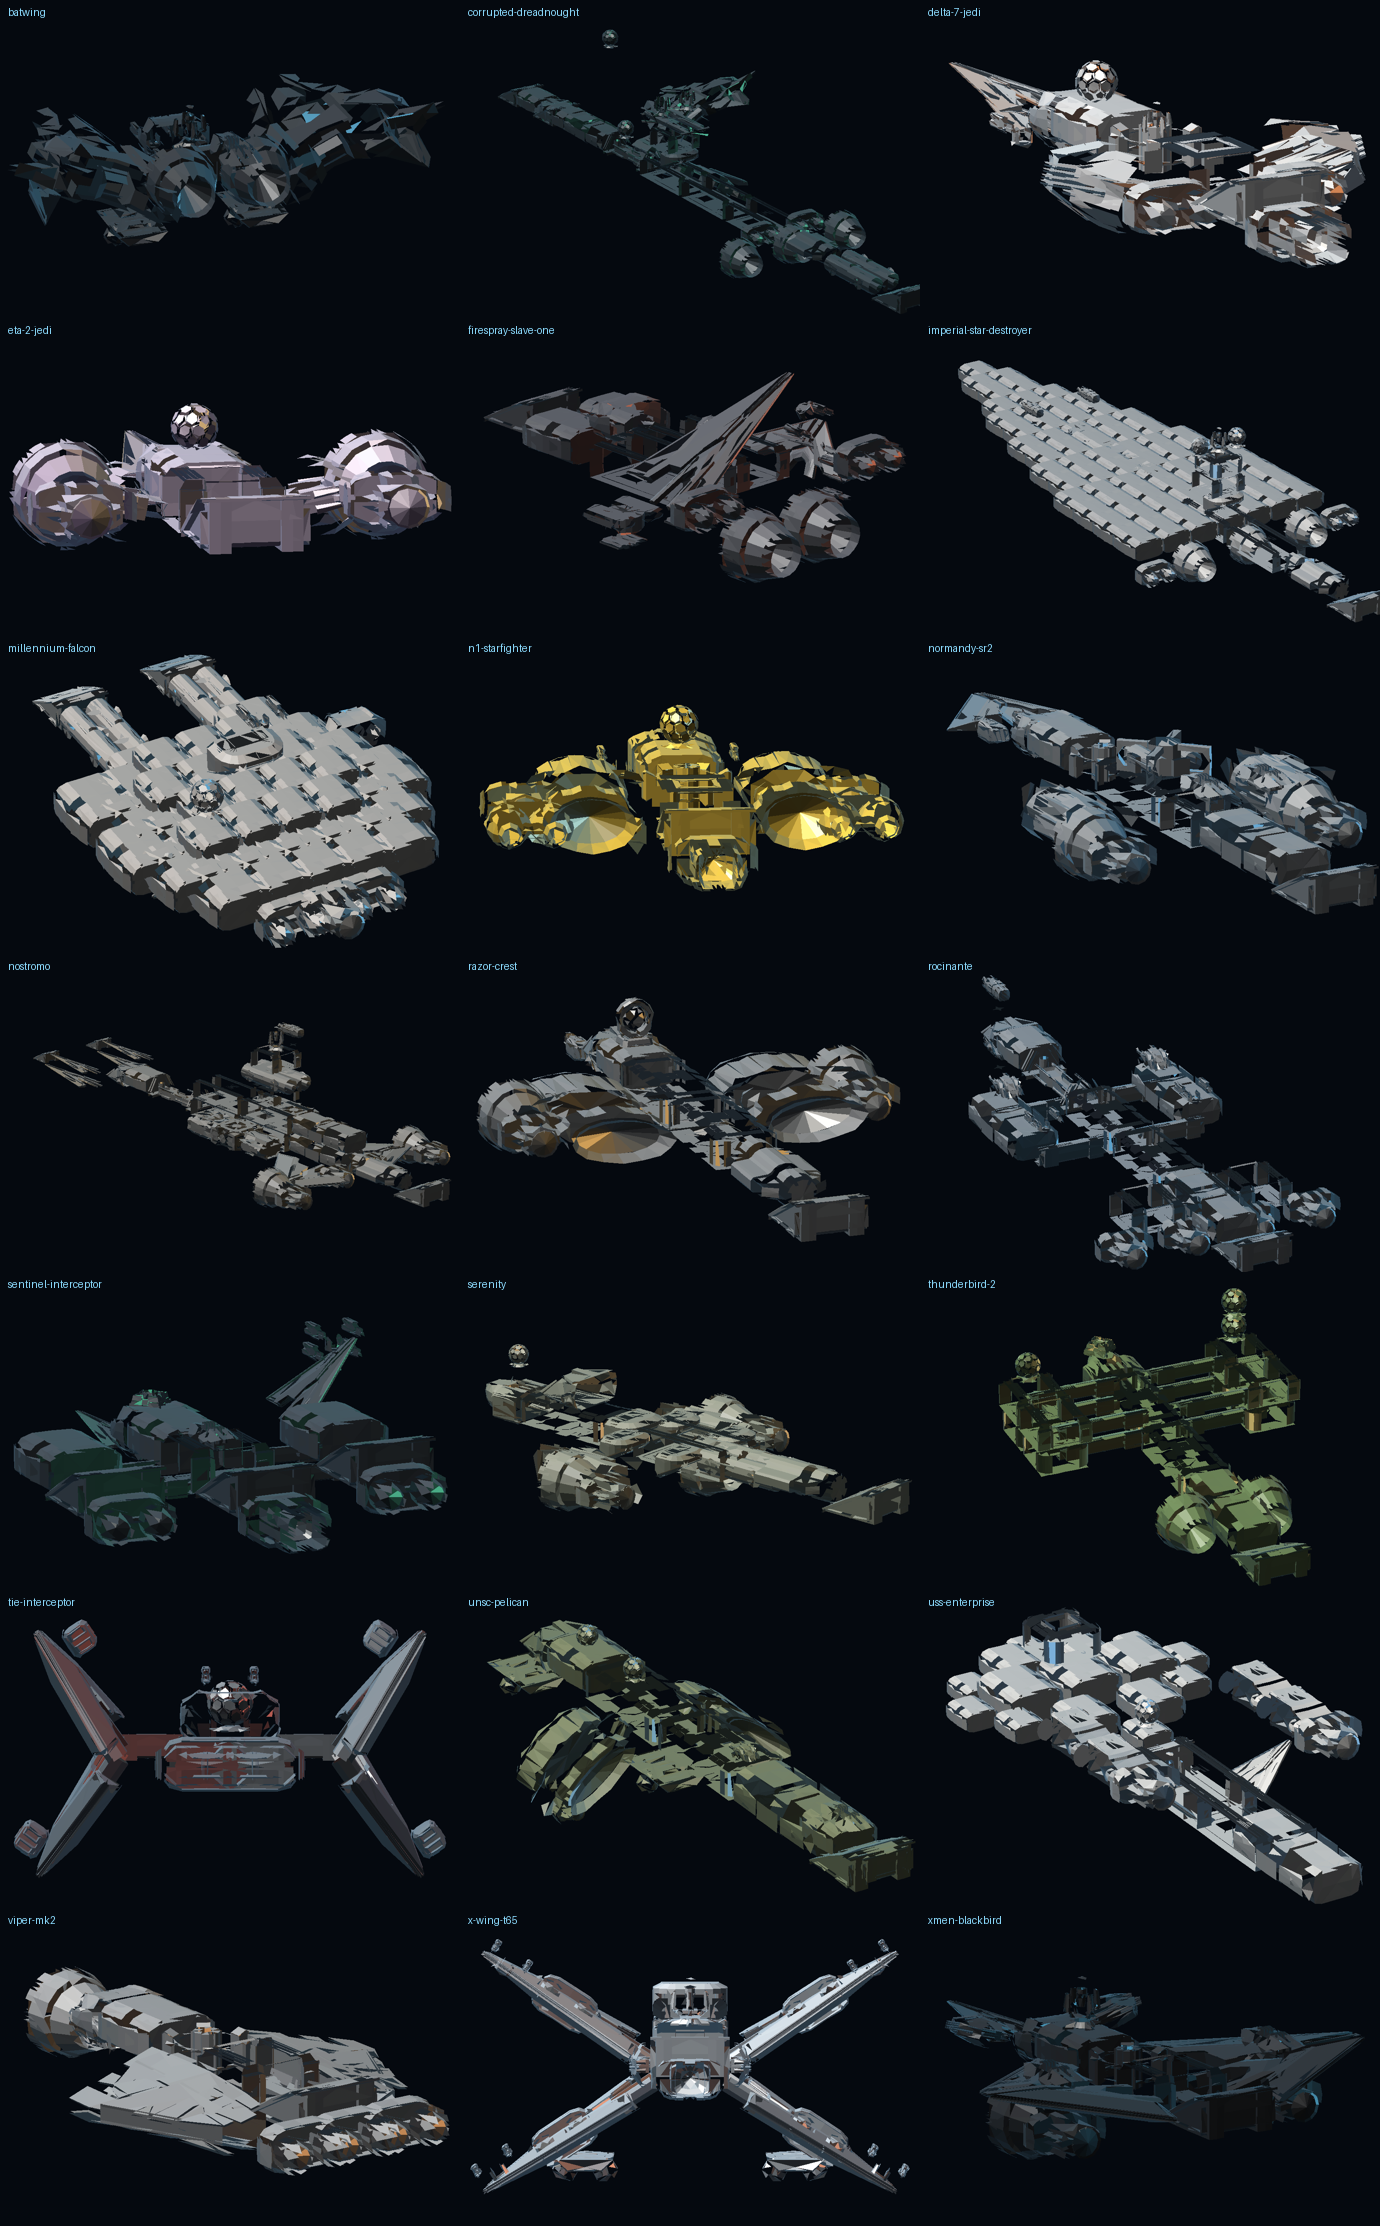
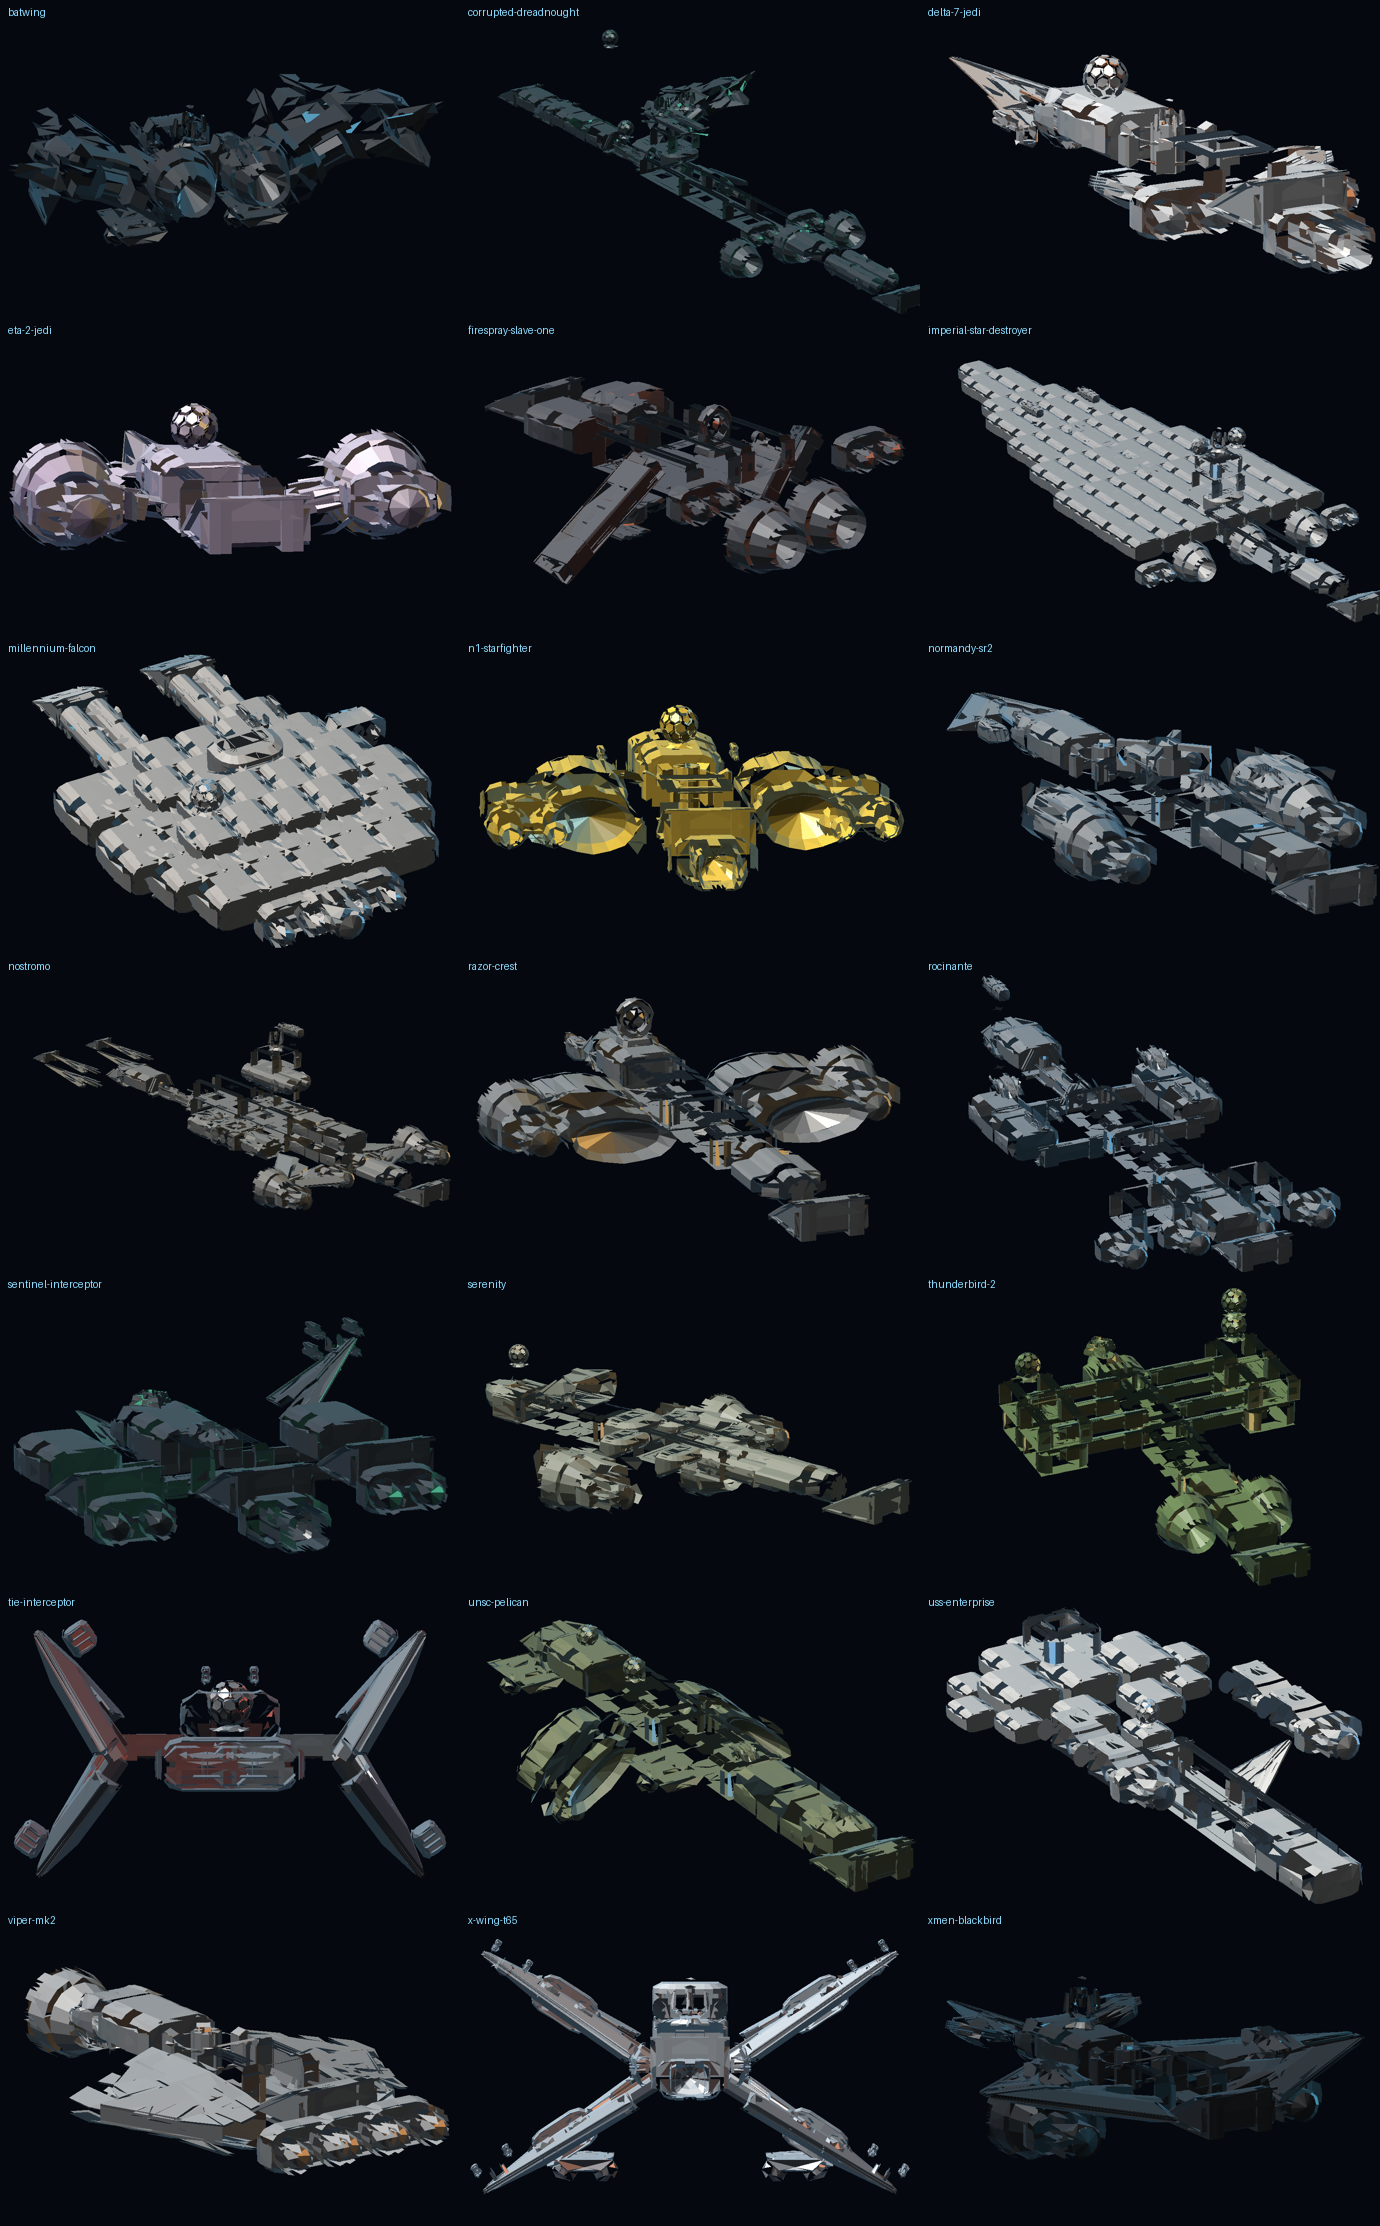
Firespray arms are limbs, not wings; Delta-7 fins shrink
A wing is 2.3 units of chord even at half scale, so the Firespray's two-segment
arms rendered as swept wings and the ship read as a flying wing. The arms are
structural bars now: one unit of chord, stretched to the segment length, so they
make actual limbs with the cannons on the wrists. The Aethersprite's stern fins
were a third of the ship's length at 0.75; they are small wedges at 0.34.

Changed region(s): [[0.3428, 0.155, 0.6543, 0.279], [0.6855, 0.0, 0.9971, 0.124]]

diff --git a/src/lib/iconics/ships-capital.ts b/src/lib/iconics/ships-capital.ts
@@ -589,36 +589,41 @@ export function firespray(bp: Blueprint): NamedRecipe {
     put("B_TUR_E", [0, -0.3, 2.4], { role: "chin blaster" }),
   );
 
-  // The two rotating arms, each in two segments: the first rises beside the hull,
-  // the second leans back in toward the nose. That curve is the ship's silhouette,
-  // and one straight segment cannot make it.
+  // The two rotating arms, each in two segments.
+  //
+  // These used to be built from B_WNG_R, and a wing is 2.3 units of chord even at
+  // half scale — as long front to back as the hull — so the "arms" rendered as
+  // swept wings and the ship read as a flying wing. A structural bar (B_STR_A_N,
+  // one unit of chord) stretched to the segment length makes an actual limb.
   for (const side of [1, -1] as const) {
-    const elbow = span("B_WNG_R", [side * 1.05, 0.1, -0.9], [side * 1.85, 1.25, -1.2], {
-      scale: 0.5,
+    const elbow = span("B_STR_A_N", [side * 1.0, 0.15, -0.8], [side * 1.75, 1.15, -1.1], {
+      scale: 0.6,
       mirror: side < 0,
       role: "grapple arm lower",
     });
     parts.push(elbow);
-    const knee = atTip(elbow, [side > 0 ? 1 : -1, 1, 0], 0.4);
+    const knee = atTip(elbow, [side > 0 ? 1 : -1, 1, 0], 0.25);
     if (knee) {
-      const upper = span("B_WNG_R", knee, [side * 1.15, knee[1] + 1.5, knee[2] - 0.3], {
-        scale: 0.34,
+      // the upper segment leans back IN toward the nose, which is the curve
+      const wrist = [side * 1.05, knee[1] + 1.35, knee[2] + 0.5] as V3;
+      const upper = span("B_STR_A_N", knee, wrist, {
+        scale: 0.52,
         mirror: side < 0,
         role: "grapple arm upper",
       });
       parts.push(upper);
-      const gun = atTip(upper, [side > 0 ? -1 : 1, 1, 0], 0.3);
-      if (gun) {
-        parts.push({
-          assetId: "B_TUR_A",
-          pos: [gun[0], gun[1] - 0.12, gun[2] - 0.4],
-          mirror: side < 0,
-          roll: upper.roll,
-          role: "blaster cannon",
-        });
+      const cannon = atTip(upper, [side > 0 ? -1 : 1, 1, 0.4], 0.22);
+      if (cannon) {
+        parts.push(
+          put("B_TUR_E", [cannon[0], cannon[1] + 0.1, cannon[2] + 0.55], {
+            mirror: side < 0,
+            roll: upper.roll,
+            role: "blaster cannon",
+          }),
+        );
       }
     }
-    parts.push(put("B_TRU_A", [side * 1.5, 0.42, -1.9], { mirror: side < 0, role: "arm thruster" }));
+    parts.push(put("B_TRU_A", [side * 1.5, 0.34, -1.75], { mirror: side < 0, role: "arm thruster" }));
   }
 
   // the two big drives hang under the flat hull

diff --git a/src/lib/iconics/ships-fighters.ts b/src/lib/iconics/ships-fighters.ts
@@ -167,13 +167,15 @@ export function delta7(bp: Blueprint): NamedRecipe {
     span("B_WNG_R", [0, -0.08, 0.8], [0, -0.08, 2.5], { scale: 0.16, role: "chin fairing" }),
   );
 
-  // two short blades at the stern, barely canted, with the engines on the roots
+  // Two SHORT fins at the stern, engines tucked against their roots. At 0.75 scale
+  // these came out as planks a third of the ship's length; the Aethersprite's fins
+  // are small wedges, so they are scaled and reached down accordingly.
   parts.push(
-    ...spanPair("B_WNG_K", [0.5, 0.02, -2.5], [1.75, 0.35, -2.5], { scale: 0.75, role: "wing blade" }),
+    ...spanPair("B_WNG_K", [0.5, 0.0, -2.35], [1.3, 0.22, -2.55], { scale: 0.34, role: "wing fin" }),
   );
   parts.push(
-    put("B_TRU_A", [0.72, 0.05, -2.9], { role: "sublight thruster" }),
-    put("B_TRU_A", [-0.72, 0.05, -2.9], { mirror: true, role: "sublight thruster" }),
+    put("B_TRU_A", [0.68, 0.0, -2.75], { role: "sublight thruster" }),
+    put("B_TRU_A", [-0.68, 0.0, -2.75], { mirror: true, role: "sublight thruster" }),
     put("B_TUR_A", [0.3, -0.2, 0.9], { role: "nose cannon" }),
     put("B_TUR_A", [-0.3, -0.2, 0.9], { mirror: true, role: "nose cannon" }),
     // a small astromech dome, not a beach ball: the ion barrier is a wide flat
